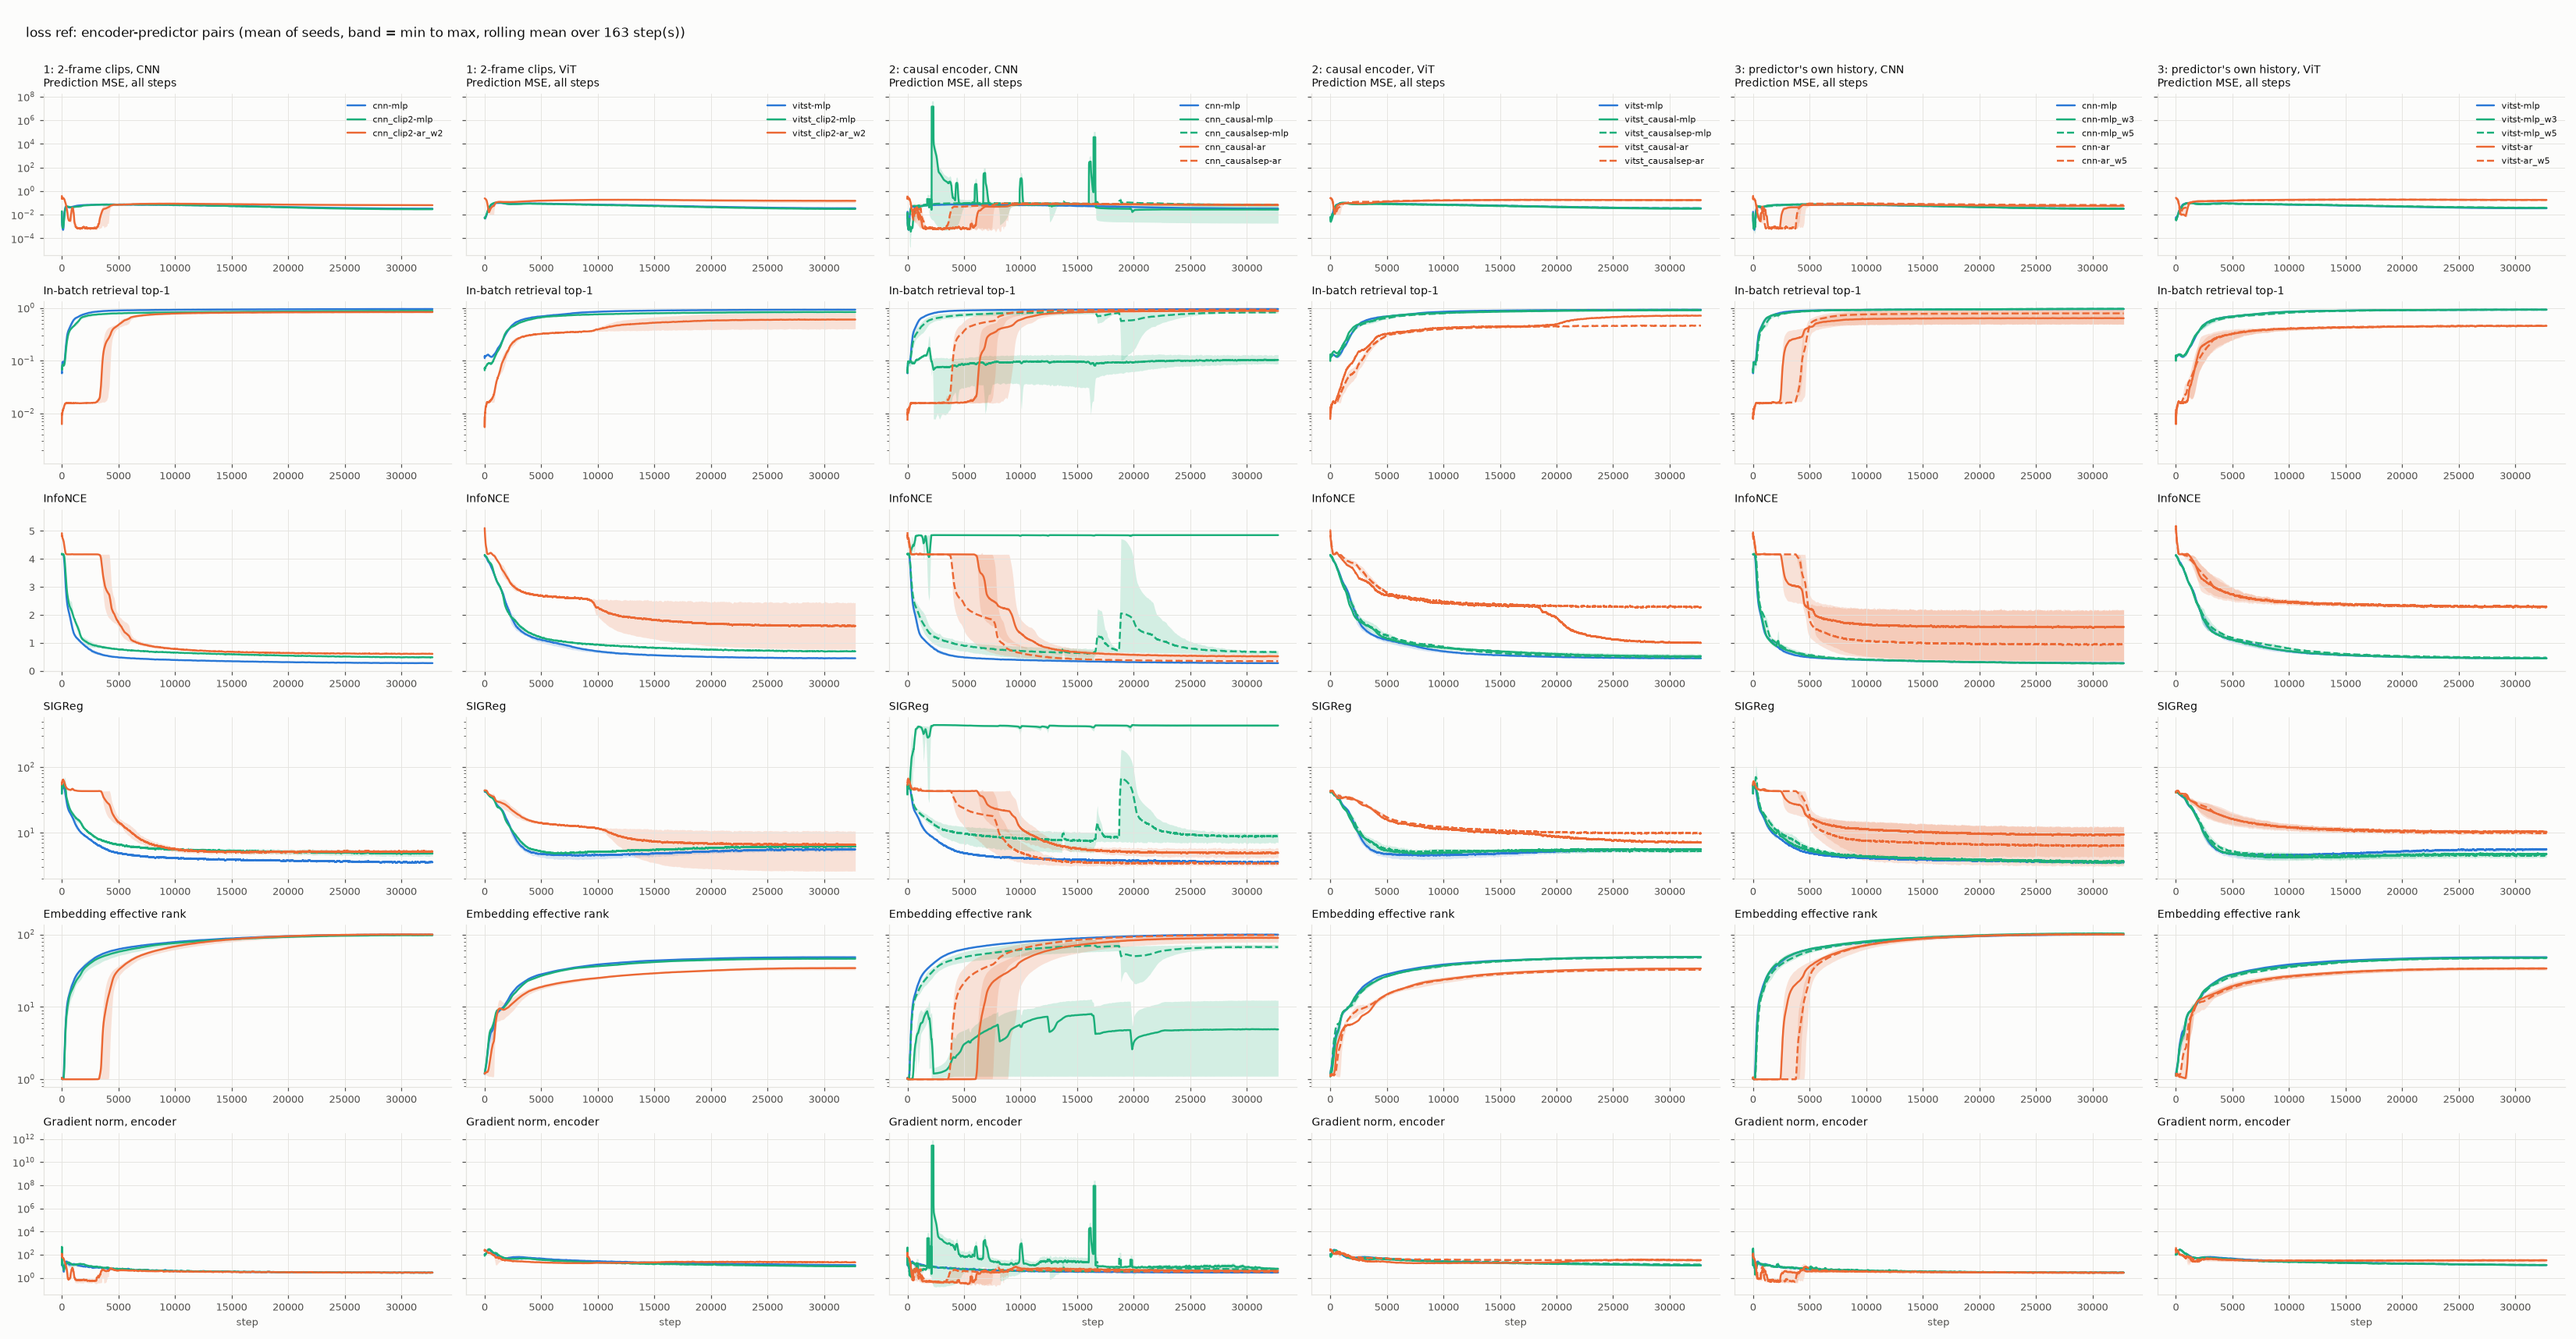
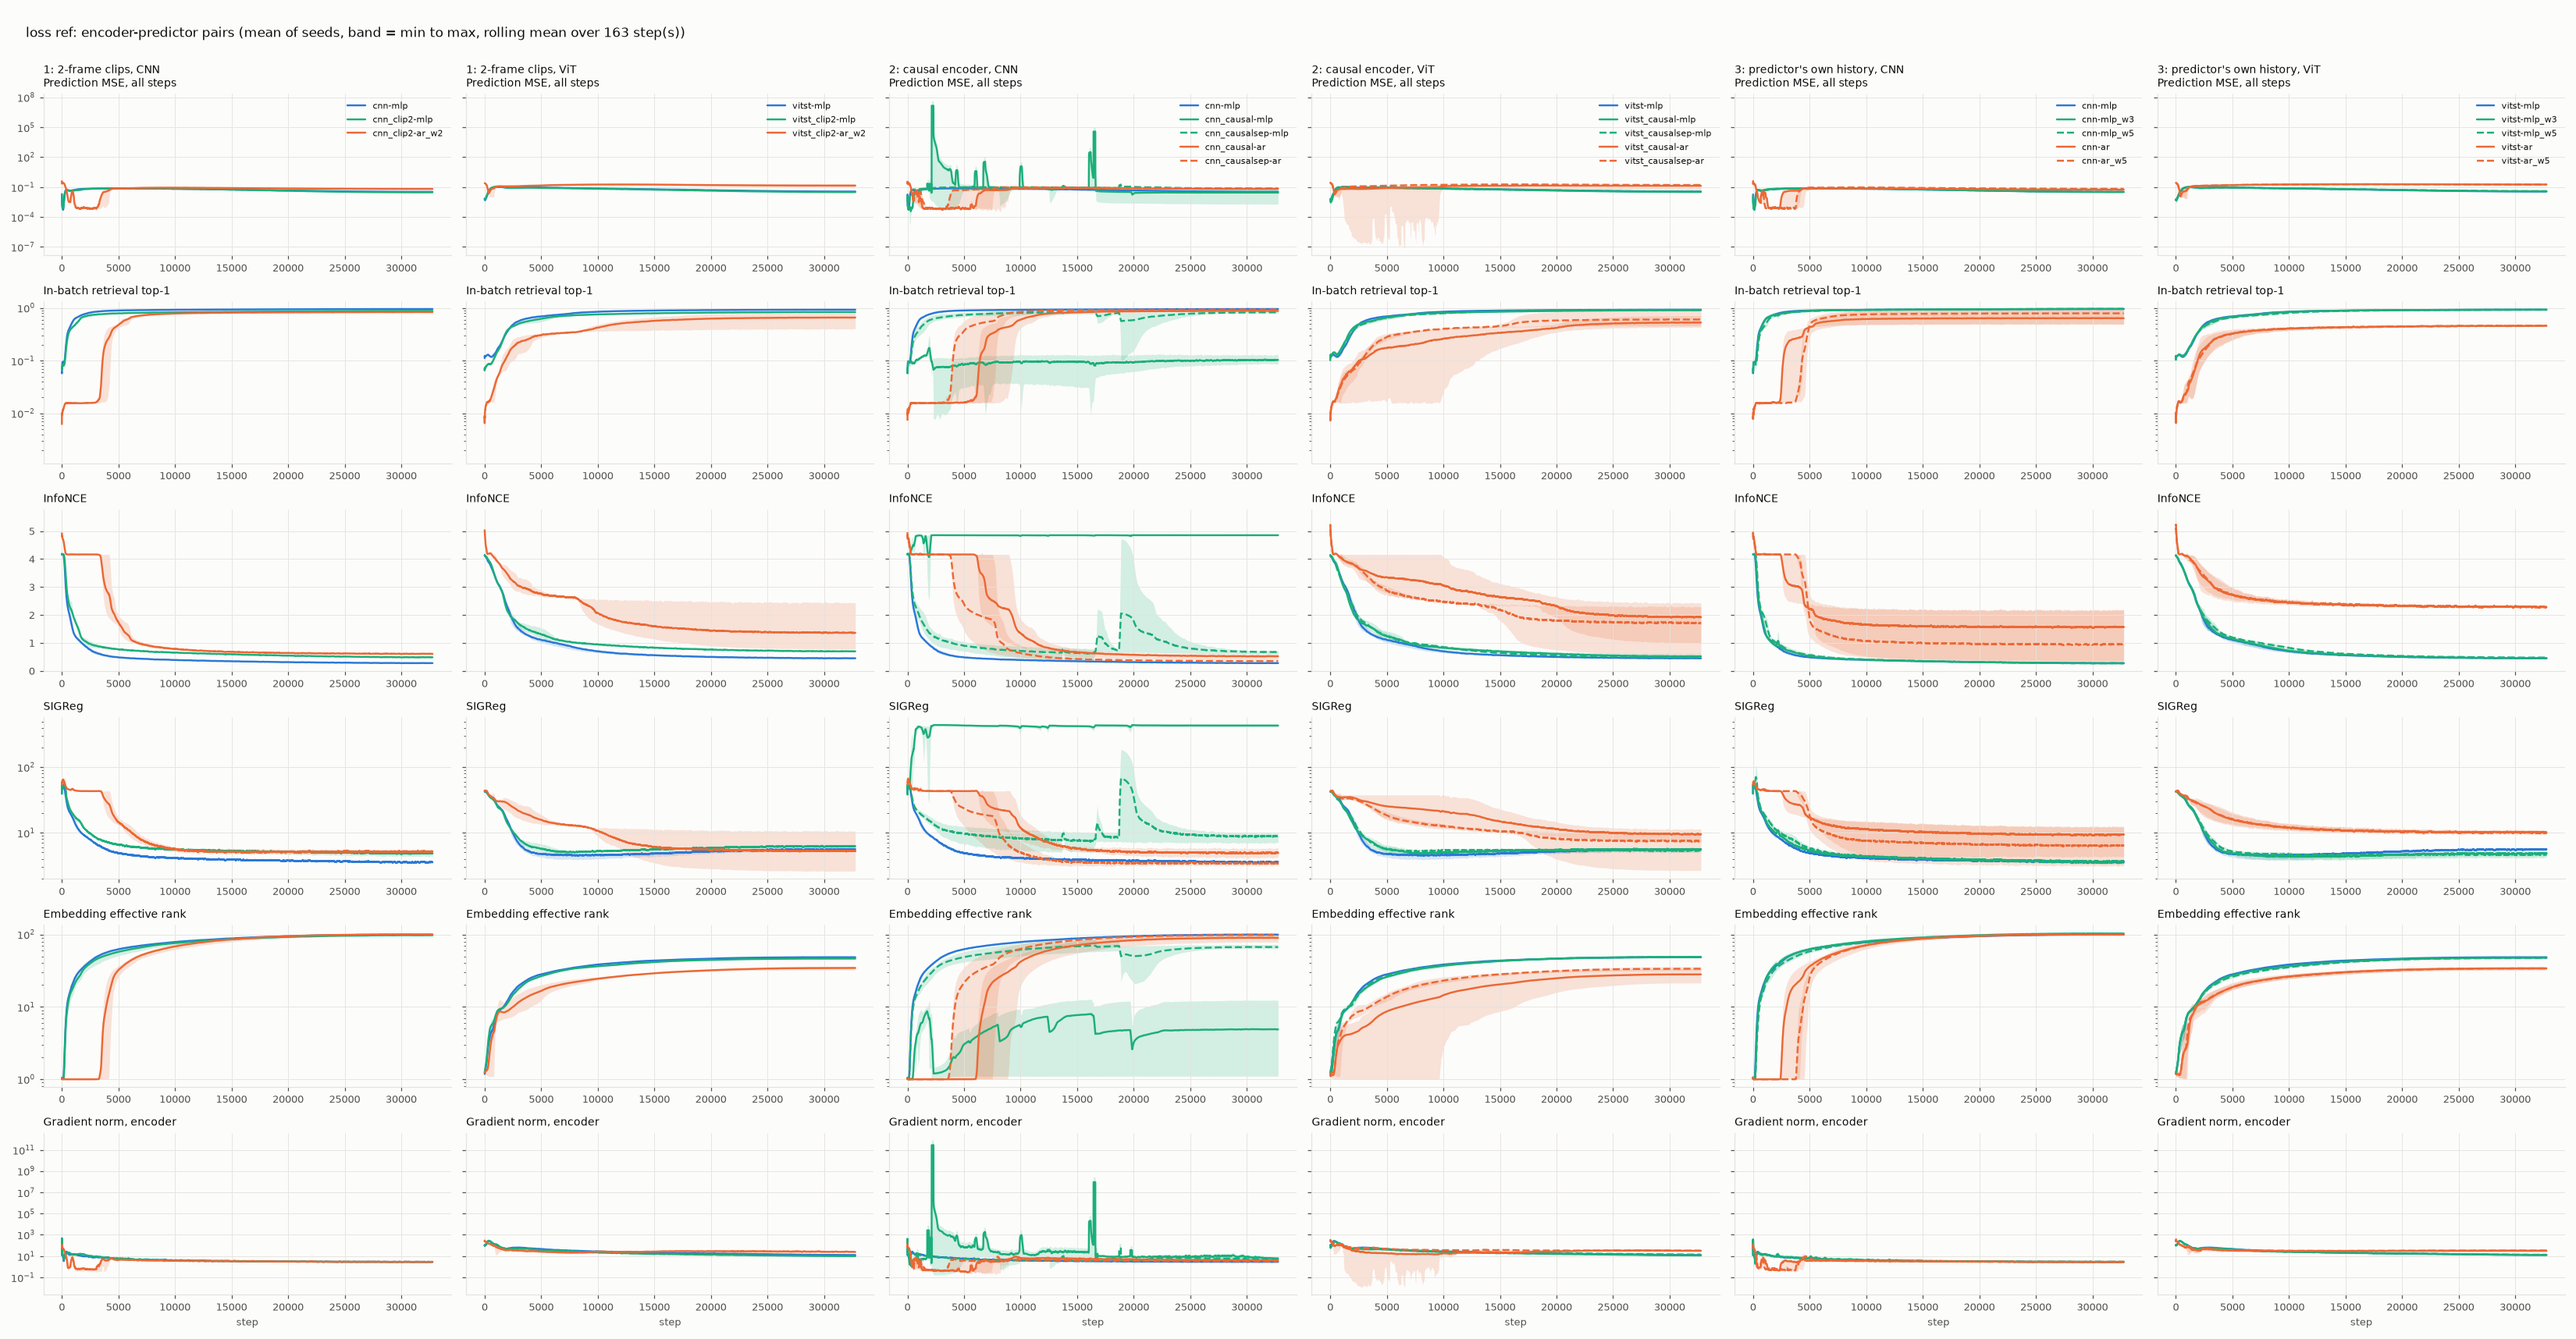
Reran predictor history report

diff --git a/experiments/predictor_history/results/all/report/summary.md b/experiments/predictor_history/results/all/report/summary.md
@@ -13,14 +13,14 @@ Mean ± standard deviation across seeds; train_minutes is the mean training time
 | cnn_causalsep-mlp-ref | 3 | 0.351 ± 0.117 | 0.309 ± 0.187 | 0.023 ± 0.007 | 0.800 ± 0.103 | 0.664 ± 0.123 | 0.853 ± 0.012 | 0.070 ± 0.030 | 94.3 (91.3–95.9) | 14.010 ± 0.000 | 3/3 | gpu1705 (GTX 1080 Ti) |
 | cnn_clip2-ar_w2-ref | 3 | 0.543 ± 0.004 | 0.058 ± 0.001 | 0.016 ± 0.000 | 0.871 ± 0.041 | 0.845 ± 0.022 | 0.900 ± 0.003 | 0.065 ± 0.003 | 186.8 (185.0–188.5) | 8.760 ± 0.000 | 3/3 | gpu1602 (GTX 1080) |
 | cnn_clip2-mlp-ref | 3 | 0.534 ± 0.006 | 0.086 ± 0.002 | 0.015 ± 0.000 | 0.943 ± 0.004 | 0.881 ± 0.002 | 0.894 ± 0.010 | 0.030 ± 0.004 | 90.8 (89.0–91.8) | 6.200 ± 0.000 | 3/3 | gpu1601 (GTX 1080) |
-| vitst-ar-ref | 2 | 0.315 ± 0.036 | 0.156 ± 0.015 | 0.020 ± 0.003 | 0.216 ± 0.001 | 0.294 ± 0.027 | 0.614 ± 0.012 | 0.182 ± 0.006 | 361.4 (358.3–364.5) | 7.760 ± 0.000 | 2/2 | gpu1907 (TITAN RTX) |
+| vitst-ar-ref | 3 | 0.319 ± 0.026 | 0.154 ± 0.011 | 0.020 ± 0.002 | 0.216 ± 0.001 | 0.297 ± 0.020 | 0.612 ± 0.009 | 0.180 ± 0.005 | 358.7 (353.2–364.5) | 7.760 ± 0.000 | 3/3 | gpu1907 (TITAN RTX) |
 | vitst-ar_w5-ref | 3 | 0.318 ± 0.018 | 0.155 ± 0.011 | 0.019 ± 0.003 | 0.214 ± 0.001 | 0.296 ± 0.013 | 0.588 ± 0.012 | 0.181 ± 0.006 | 252.4 (252.1–252.7) | 7.760 ± 0.000 | 3/3 | gpu1907 (TITAN RTX) |
 | vitst-mlp-ref | 3 | 0.691 ± 0.013 | 0.051 ± 0.002 | 0.011 ± 0.001 | 0.909 ± 0.005 | 0.976 ± 0.011 | 0.936 ± 0.001 | 0.035 ± 0.002 | 200.0 (199.2–201.1) | 4.410 ± 0.000 | 3/3 | gpu1907 (TITAN RTX) |
-| vitst-mlp_w3-ref | 2 | 0.665 ± 0.015 | 0.061 ± 0.002 | 0.011 ± 0.000 | 0.912 ± 0.008 | 0.959 ± 0.006 | 0.923 ± 0.003 | 0.038 ± 0.003 | 381.4 (378.0–384.9) | 4.790 ± 0.000 | 2/2 | gpu1906 (GTX 1080 Ti) |
-| vitst-mlp_w5-ref | 2 | 0.640 ± 0.025 | 0.070 ± 0.001 | 0.010 ± 0.001 | 0.922 ± 0.000 | 0.946 ± 0.018 | 0.921 ± 0.006 | 0.039 ± 0.004 | 381.7 (377.5–385.9) | 5.180 ± 0.000 | 2/2 | gpu1906 (GTX 1080 Ti) |
-| vitst_causal-ar-ref | 1 | 0.415 | 0.140 | 0.015 | 0.856 | 0.743 | 0.871 | 0.175 | 502.3 | 7.870 | 1/1 | gpu1708 (GTX 1080 Ti) |
-| vitst_causal-mlp-ref | 2 | 0.630 ± 0.082 | 0.066 ± 0.003 | 0.011 ± 0.001 | 0.916 ± 0.001 | 0.936 ± 0.060 | 0.896 ± 0.034 | 0.032 ± 0.002 | 441.1 (437.7–444.5) | 4.890 ± 0.000 | 2/2 | gpu1707 (GTX 1080 Ti) |
-| vitst_causalsep-ar-ref | 2 | 0.323 ± 0.013 | 0.144 ± 0.012 | 0.014 ± 0.002 | 0.218 ± 0.003 | 0.301 ± 0.007 | 0.583 ± 0.006 | 0.174 ± 0.007 | 472.9 (468.8–476.9) | 13.750 ± 0.000 | 2/2 | gpu1802 (GTX 1080 Ti) |
-| vitst_causalsep-mlp-ref | 2 | 0.650 ± 0.012 | 0.062 ± 0.001 | 0.012 ± 0.000 | 0.909 ± 0.010 | 0.946 ± 0.003 | 0.922 ± 0.002 | 0.036 ± 0.001 | 411.9 (408.2–415.6) | 10.770 ± 0.000 | 2/2 | gpu1801 (GTX 1080 Ti) |
-| vitst_clip2-ar_w2-ref | 2 | 0.329 ± 0.192 | 0.139 ± 0.063 | 0.010 ± 0.003 | 0.467 ± 0.353 | 0.452 ± 0.348 | 0.735 ± 0.220 | 0.152 ± 0.066 | 413.6 (406.0–421.1) | 7.760 ± 0.000 | 2/2 | gpu1604 (GTX 1080) |
-| vitst_clip2-mlp-ref | 2 | 0.505 ± 0.006 | 0.056 ± 0.000 | 0.013 ± 0.000 | 0.936 ± 0.001 | 0.856 ± 0.004 | 0.898 ± 0.007 | 0.031 ± 0.001 | 345.0 (339.3–350.6) | 4.600 ± 0.000 | 2/2 | gpu1603 (GTX 1080) |
+| vitst-mlp_w3-ref | 3 | 0.663 ± 0.011 | 0.061 ± 0.001 | 0.011 ± 0.000 | 0.914 ± 0.006 | 0.959 ± 0.004 | 0.924 ± 0.003 | 0.038 ± 0.002 | 380.6 (378.0–384.9) | 4.790 ± 0.000 | 3/3 | gpu1906 (GTX 1080 Ti) |
+| vitst-mlp_w5-ref | 3 | 0.641 ± 0.018 | 0.069 ± 0.002 | 0.011 ± 0.001 | 0.920 ± 0.003 | 0.946 ± 0.013 | 0.924 ± 0.007 | 0.039 ± 0.003 | 381.0 (377.5–385.9) | 5.180 ± 0.000 | 3/3 | gpu1906 (GTX 1080 Ti) |
+| vitst_causal-ar-ref | 3 | 0.312 ± 0.094 | 0.121 ± 0.036 | 0.018 ± 0.003 | 0.593 ± 0.330 | 0.513 ± 0.232 | 0.662 ± 0.186 | 0.134 ± 0.067 | 500.5 (495.6–503.7) | 7.870 ± 0.000 | 3/3 | gpu1708 (GTX 1080 Ti) |
+| vitst_causal-mlp-ref | 3 | 0.635 ± 0.059 | 0.065 ± 0.003 | 0.011 ± 0.001 | 0.919 ± 0.005 | 0.941 ± 0.043 | 0.899 ± 0.024 | 0.032 ± 0.002 | 441.1 (437.7–444.5) | 4.890 ± 0.000 | 3/3 | gpu1707 (GTX 1080 Ti) |
+| vitst_causalsep-ar-ref | 3 | 0.431 ± 0.188 | 0.135 ± 0.018 | 0.015 ± 0.002 | 0.454 ± 0.407 | 0.519 ± 0.376 | 0.692 ± 0.190 | 0.161 ± 0.022 | 473.8 (468.8–476.9) | 13.750 ± 0.000 | 3/3 | gpu1802 (GTX 1080 Ti) |
+| vitst_causalsep-mlp-ref | 3 | 0.650 ± 0.009 | 0.061 ± 0.003 | 0.011 ± 0.001 | 0.910 ± 0.007 | 0.947 ± 0.002 | 0.923 ± 0.002 | 0.035 ± 0.001 | 411.1 (408.2–415.6) | 10.770 ± 0.000 | 3/3 | gpu1801 (GTX 1080 Ti) |
+| vitst_clip2-ar_w2-ref | 3 | 0.340 ± 0.137 | 0.129 ± 0.048 | 0.009 ± 0.003 | 0.550 ± 0.288 | 0.509 ± 0.265 | 0.783 ± 0.176 | 0.140 ± 0.051 | 411.4 (406.0–421.1) | 7.760 ± 0.000 | 3/3 | gpu1604 (GTX 1080) |
+| vitst_clip2-mlp-ref | 3 | 0.506 ± 0.004 | 0.057 ± 0.002 | 0.013 ± 0.001 | 0.936 ± 0.001 | 0.856 ± 0.003 | 0.900 ± 0.005 | 0.031 ± 0.001 | 343.8 (339.3–350.6) | 4.600 ± 0.000 | 3/3 | gpu1603 (GTX 1080) |
